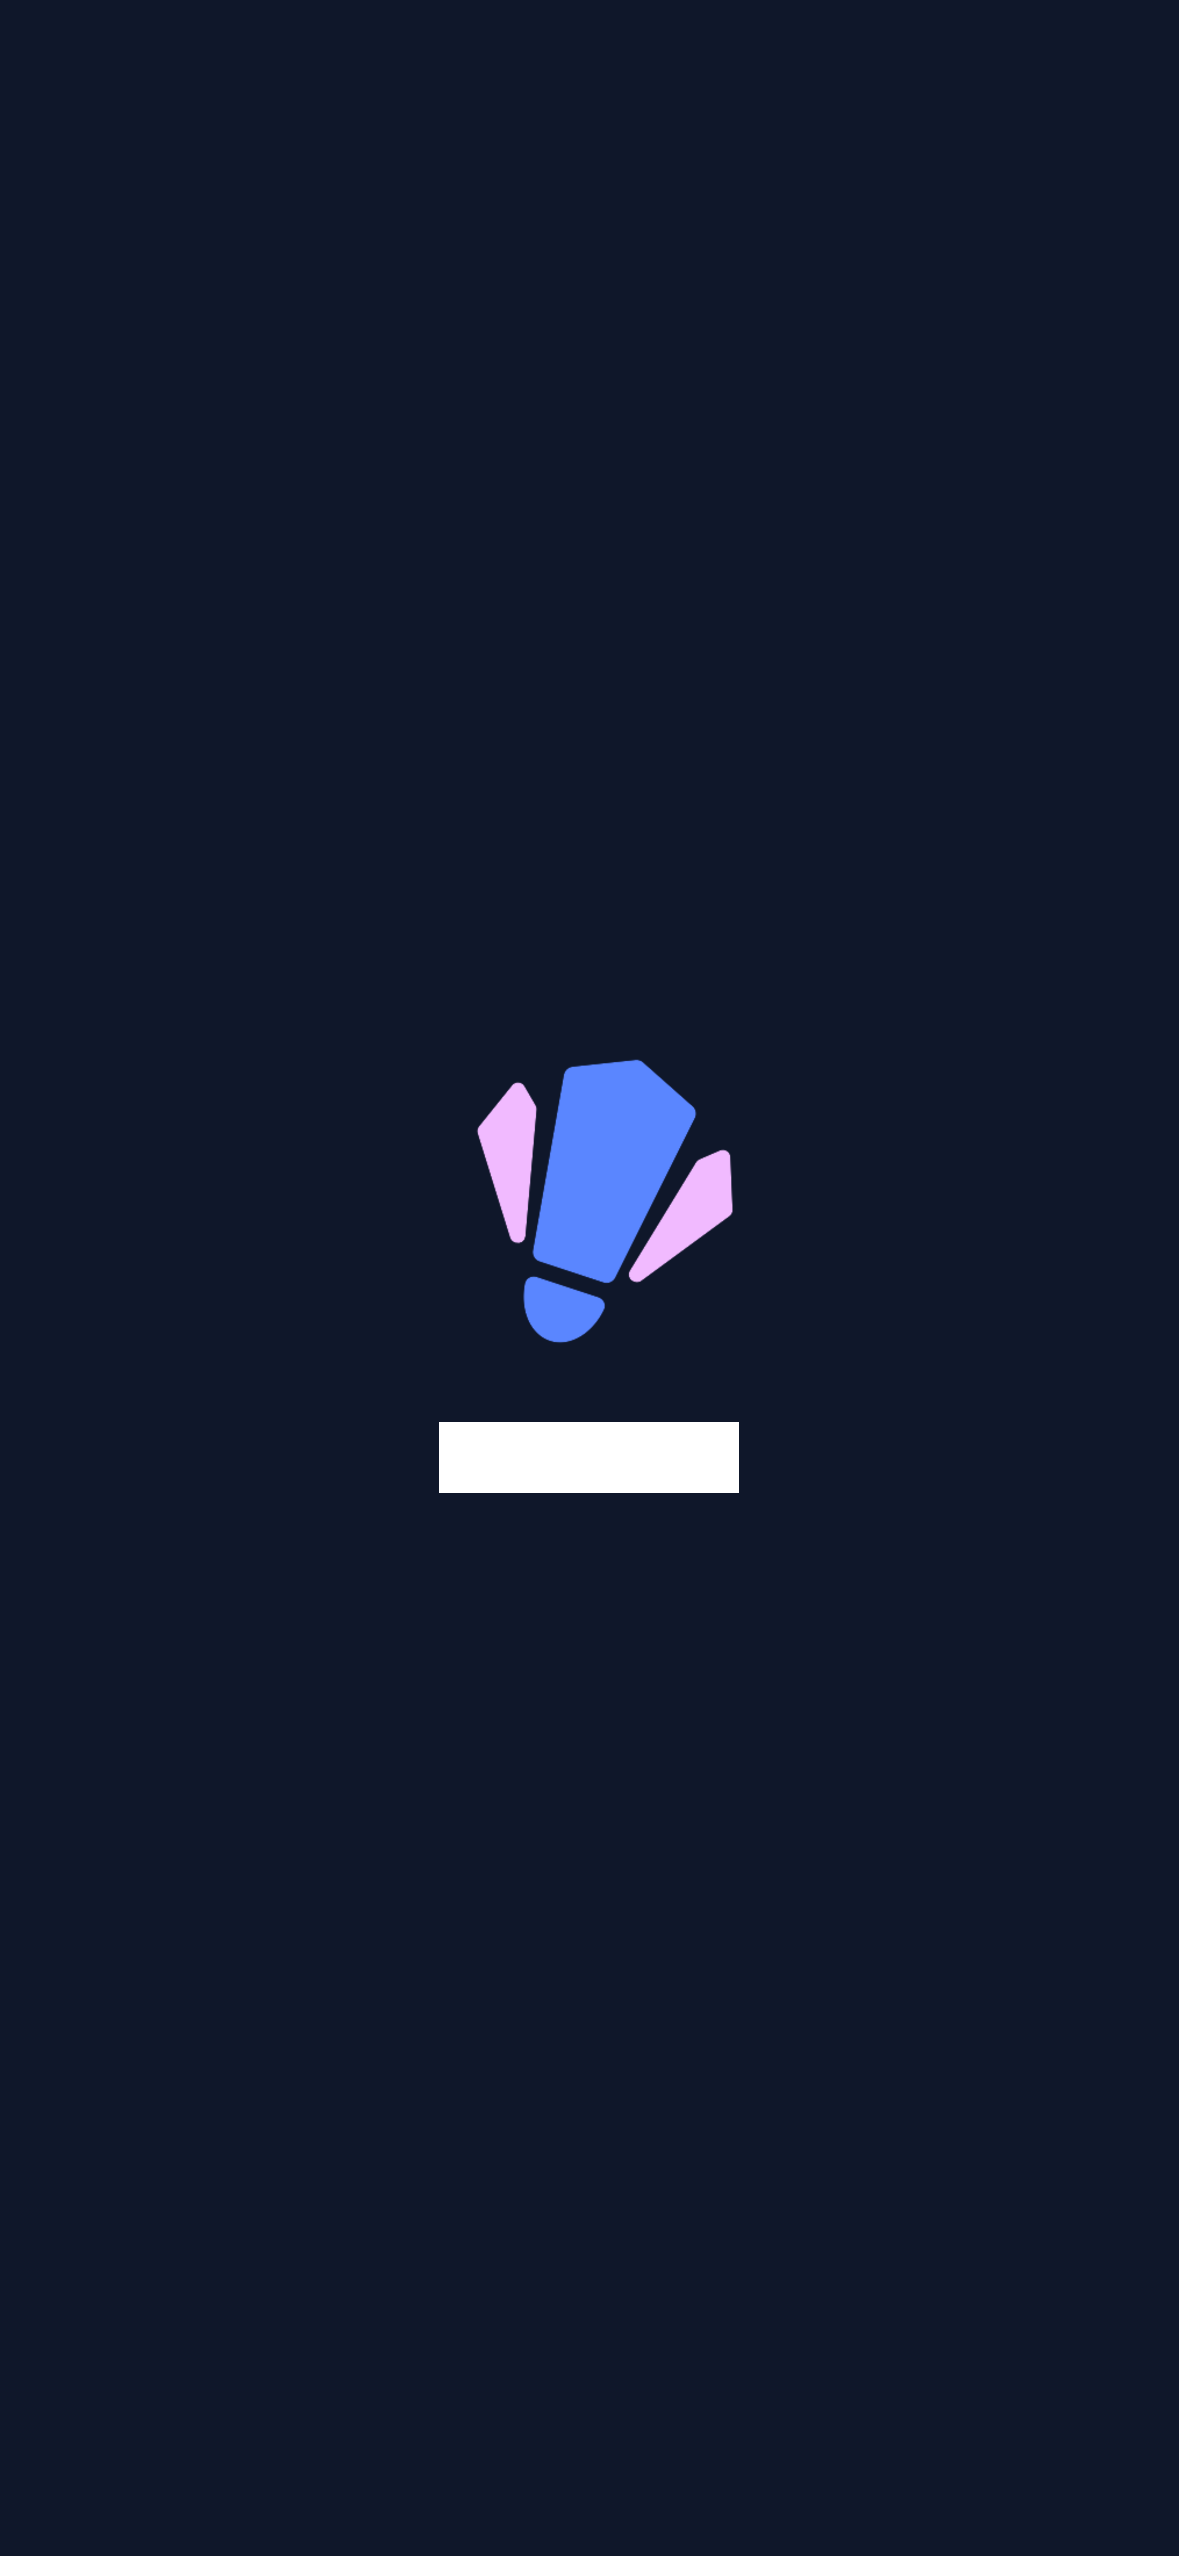
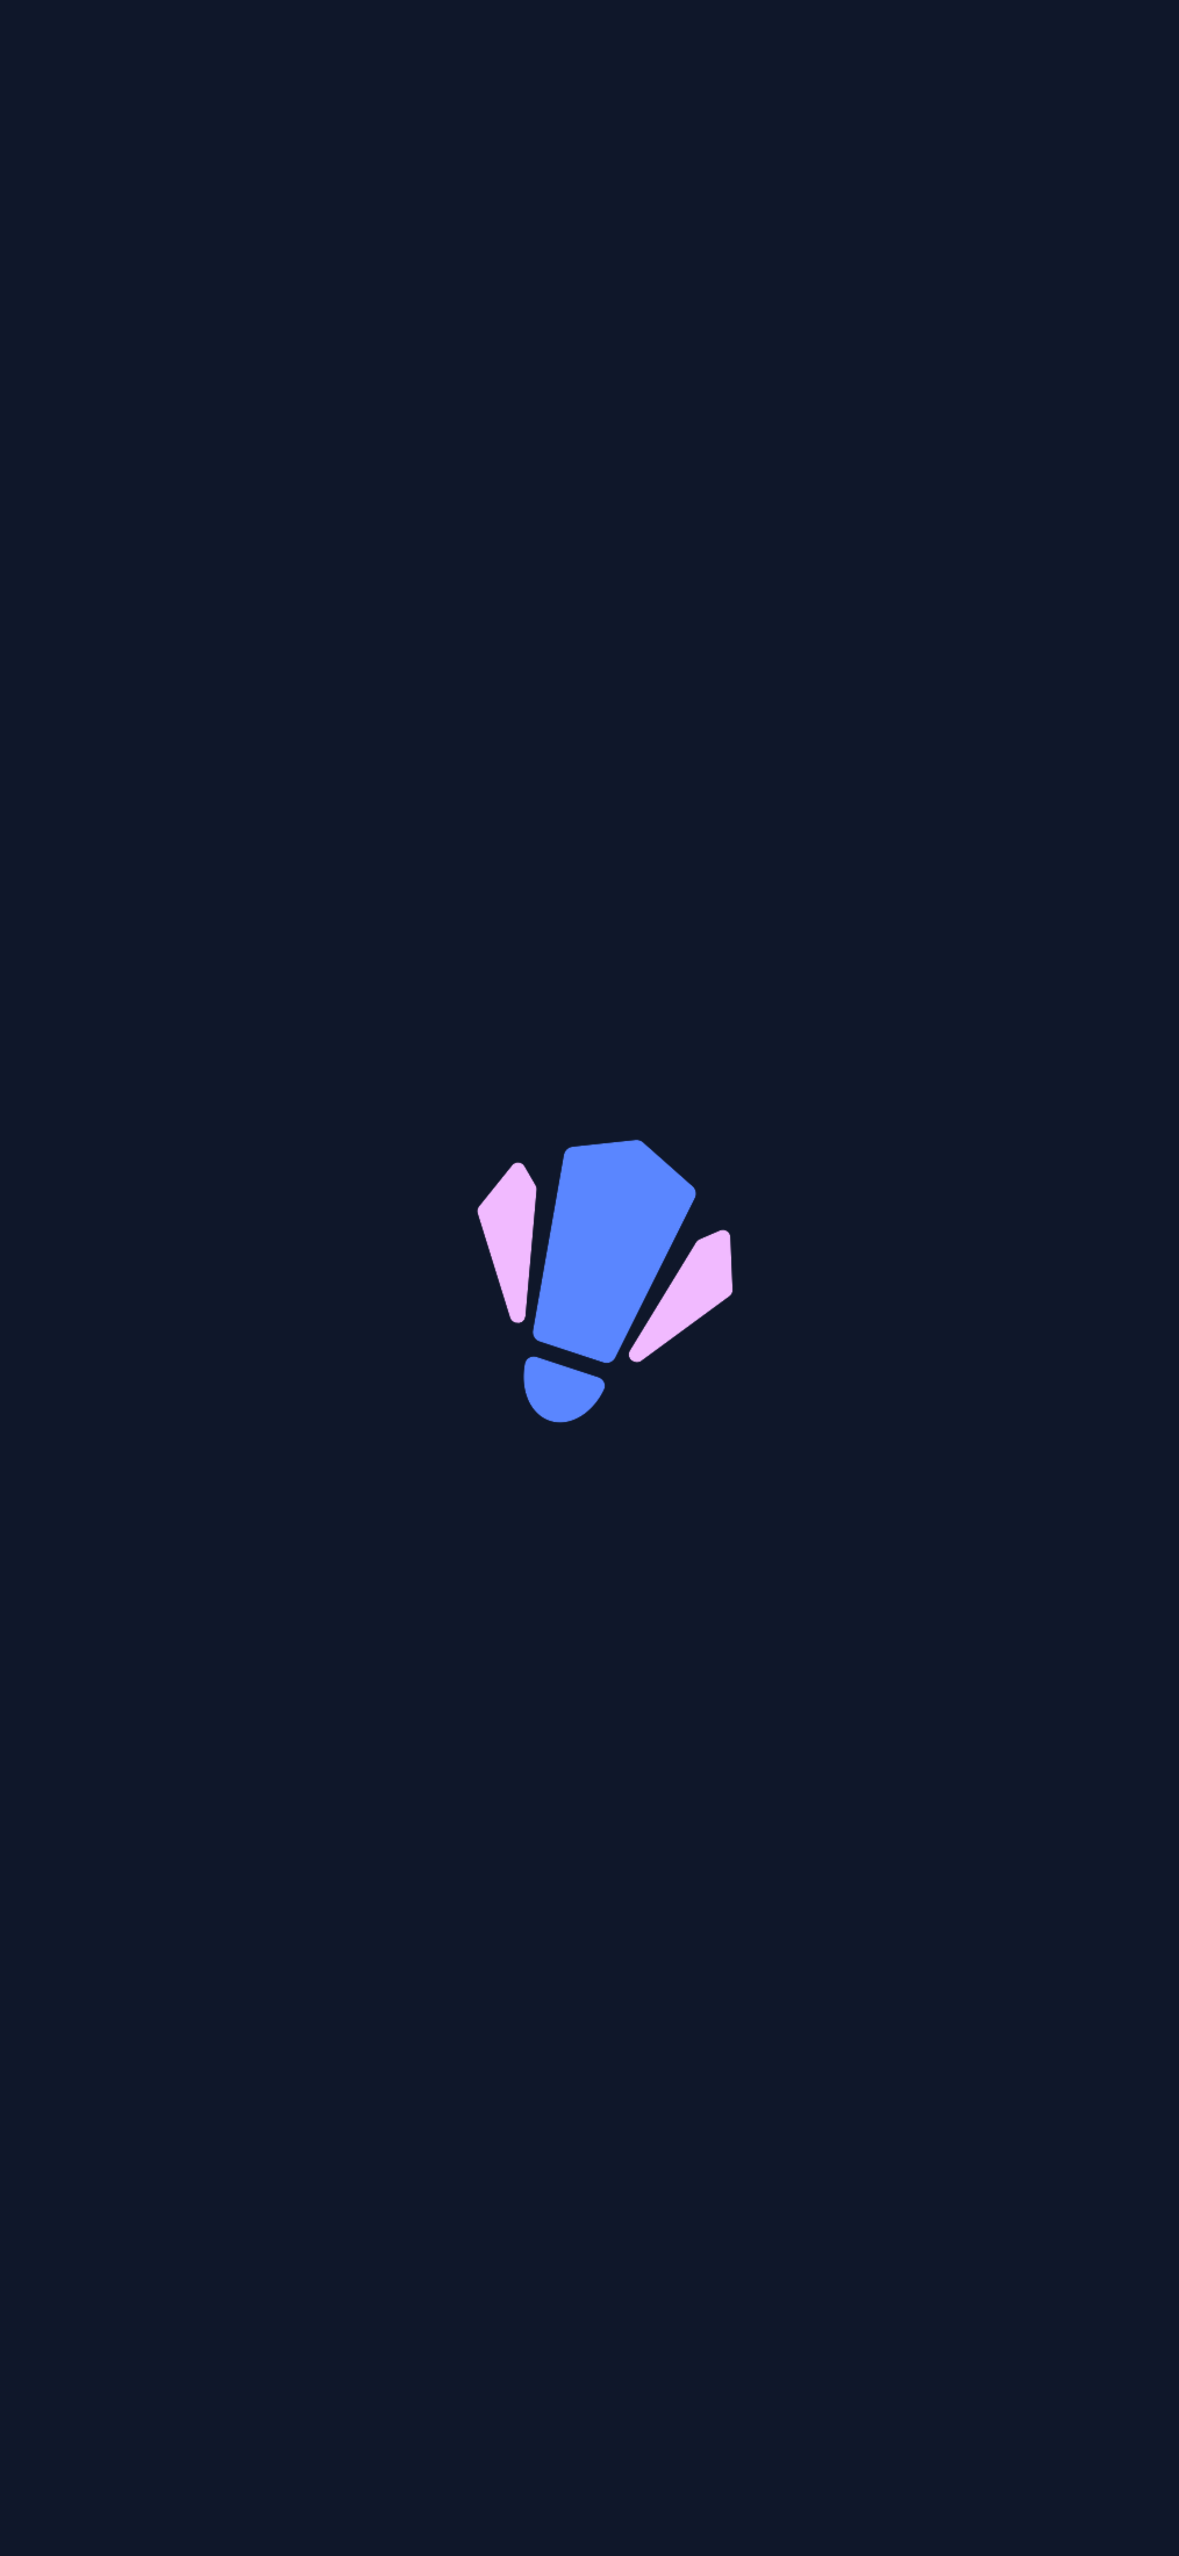
fix: スプラッシュ

Changed region(s): [[0.3664, 0.4018, 0.6412, 0.5872]]

diff --git a/packages/frontend/src/app/globals.css b/packages/frontend/src/app/globals.css
@@ -833,6 +833,11 @@
   pointer-events: none;
   animation: splash-fade 220ms ease forwards;
 }
+@media (display-mode: standalone) {
+  .initial-splash {
+    display: none !important;
+  }
+}
 @keyframes splash-fade {
   from {
     opacity: 1;
